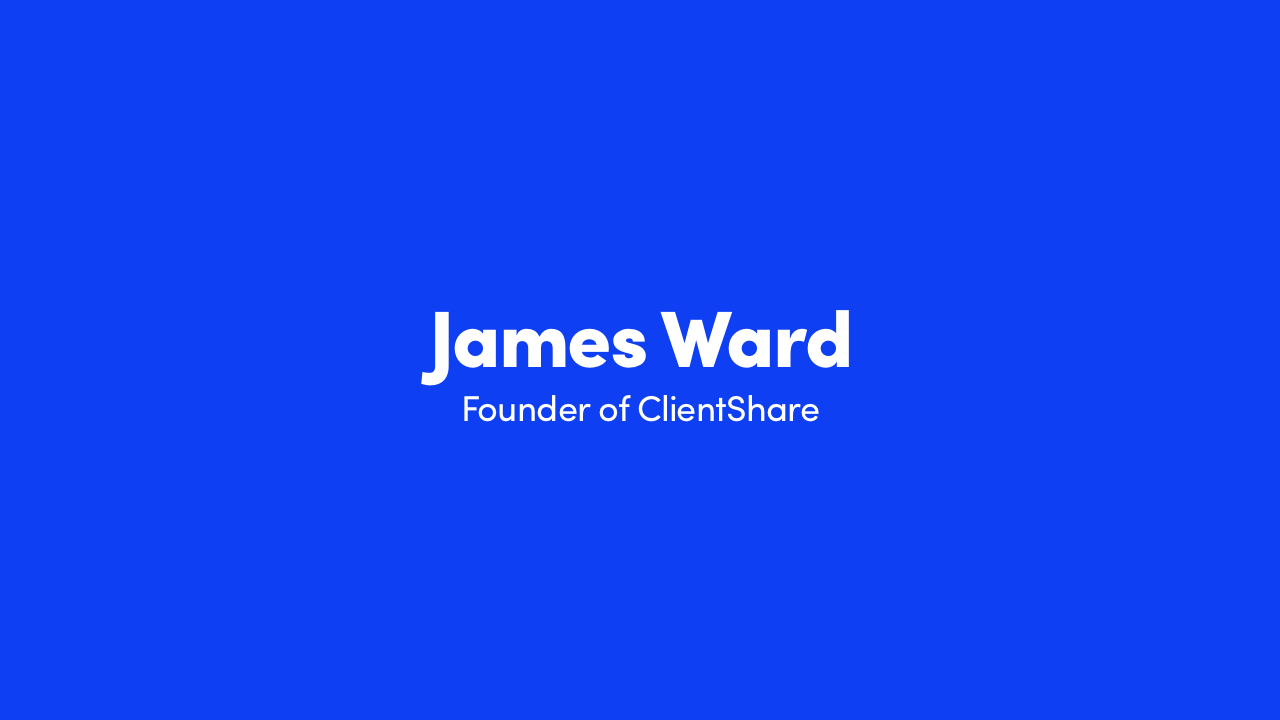
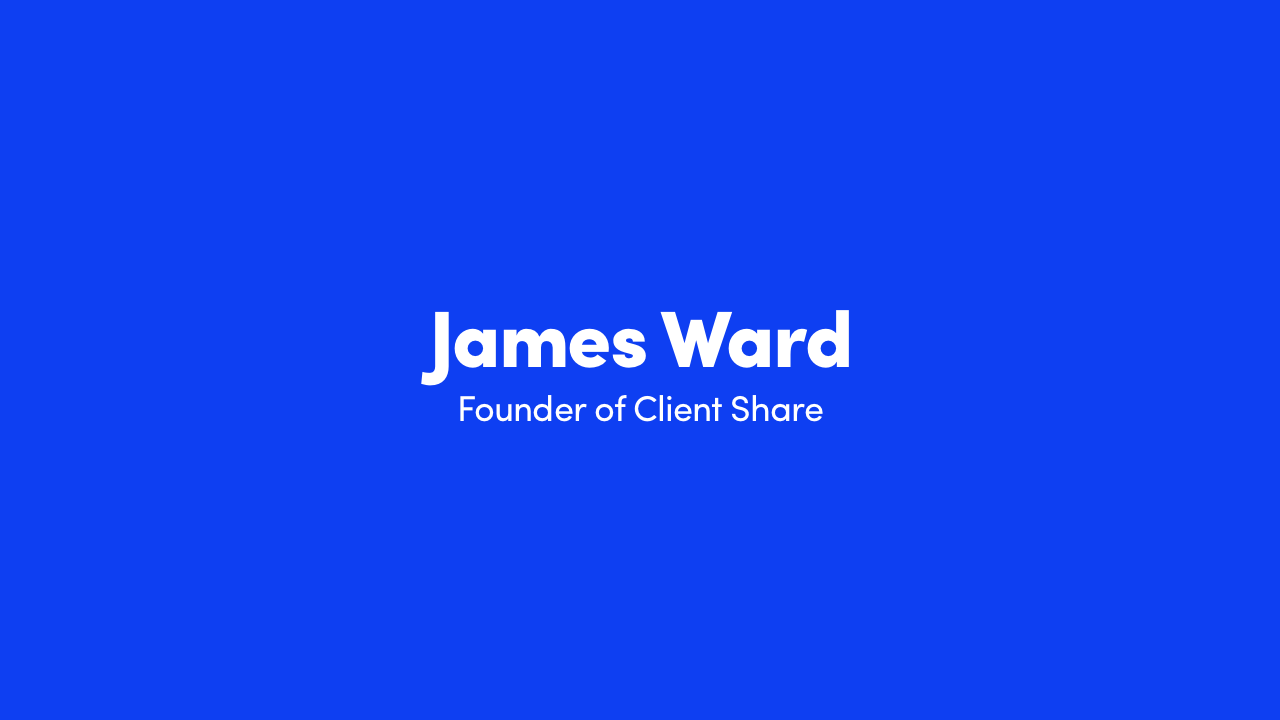
fixed poster issue

Changed region(s): [[0.3438, 0.55, 0.6562, 0.6111]]

diff --git a/app/index.html b/app/index.html
@@ -219,11 +219,11 @@
       </div>
       <div class="grid-item grid-w-100 theme-dark-darker">
         <img src="images/clients/logo_clientshare.svg" alt="ClientShare" class="project-logo">
-        <h3 class="project-title">ClientShare</h3>
-        <p class="lead testimonial measure">We don't just see them as partner to create and launch our MVP but we see them as a partner for the technology in the long term. In terms of their software support and knowledge, it has been second to none.</p>
+        <h3 class="project-title">Client Share</h3>
+        <p class="lead testimonial measure">We don't just see them as a partner to create and launch our MVP, but we see them as a partner for the technology in the long term. In terms of their software support and knowledge, it has been second to none.</p>
         <div class="video-container">
           <div class="embed-responsive embed-responsive-16by9">
-            <video controls class="embed-responsive-item" poster="images/posters/james-ward.png">
+            <video controls class="embed-responsive-item video-testimonial video-james" preload="none" poster="images/posters/james-ward.png">
               <source src="https://s3-eu-west-1.amazonaws.com/ucreate/james-720p.mp4" type="video/mp4">
               <source src="https://s3-eu-west-1.amazonaws.com/ucreate/james-720p.ogv" type="video/ogg">
               <source src="https://s3-eu-west-1.amazonaws.com/ucreate/james-720p.webm" type="video/webm">
@@ -233,7 +233,7 @@
         </div>
         <div class="founder">
           <br>
-          <img src="images/photos/james-ward.jpg" alt="James Ward" class="img-circle img-shadow">
+          <img src="images/photos/james-ward-p.jpg" alt="James Ward" class="img-circle img-shadow">
           <h4>James Ward, CEO</h4>
         </div>
         <a href="http://myclientshare.com/" class="btn btn-primary" target="_blank">Visit website</a>

diff --git a/app/styles/main.scss b/app/styles/main.scss
@@ -434,6 +434,12 @@ p.lead {
   @media (max-width: $screen-md-max) {
     max-width: 100%;
   }
+  .video-testimonial {
+   background-size:cover;
+    &.video-james {
+      background:transparent url('../images/james-ward.jpg') no-repeat 0 0; 
+    }
+  }
 }
 
 figure.figure {
